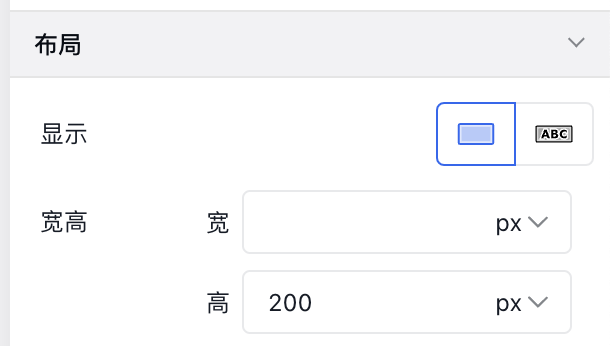
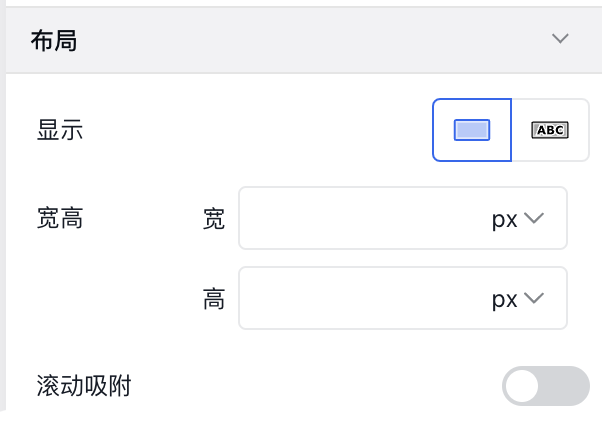
feat: 移动应用组件文档更新

diff --git a/sidebars.js b/sidebars.js
@@ -218,6 +218,62 @@ module.exports = {
           ]
         },
         {
+          组件: [
+            '移动应用/组件/流式容器', 
+            '移动应用/组件/分栏容器', 
+            '移动应用/组件/自由容器', 
+            '移动应用/组件/表单容器', 
+            '移动应用/组件/明细表', 
+            '移动应用/组件/悬浮容器', 
+            '移动应用/组件/弹窗容器', 
+            '移动应用/组件/轮播容器', 
+            '移动应用/组件/横向选项卡', 
+            '移动应用/组件/纵向选项卡', 
+            '移动应用/组件/文本', 
+            '移动应用/组件/富文本', 
+            '移动应用/组件/线条', 
+            '移动应用/组件/按钮', 
+            '移动应用/组件/图片', 
+            '移动应用/组件/视频', 
+            '移动应用/组件/轮播图', 
+            '移动应用/组件/自由列表', 
+            '移动应用/组件/单行文本', 
+            '移动应用/组件/多行文本', 
+            '移动应用/组件/数字输入', 
+            '移动应用/组件/单选框', 
+            '移动应用/组件/复选框', 
+            '移动应用/组件/下拉单选', 
+            '移动应用/组件/日期', 
+            '移动应用/组件/日期范围', 
+            '移动应用/组件/开关', 
+            '移动应用/组件/评分', 
+            '移动应用/组件/图片上传', 
+            '移动应用/组件/文件上传', 
+            '移动应用/组件/城市选择', 
+            '移动应用/组件/单图文章', 
+            '移动应用/组件/图文列表', 
+            '移动应用/组件/横向图文', 
+            '移动应用/组件/图集列表', 
+            '移动应用/组件/列表选择', 
+            '移动应用/组件/宫格导航', 
+            '移动应用/组件/图文列表', 
+            '移动应用/组件/折叠容器', 
+            '移动应用/组件/老虎机抽奖', 
+            '移动应用/组件/下拉菜单', 
+            '移动应用/组件/小程序登录', 
+            '移动应用/组件/人员选择', 
+            '移动应用/组件/部门选择', 
+            '移动应用/组件/小程序海报', 
+            '移动应用/组件/倒计时', 
+            '移动应用/组件/搜索', 
+            '移动应用/组件/3d模型展示', 
+            '移动应用/组件/生成二维码', 
+            '移动应用/组件/树形选择器', 
+            '移动应用/组件/滚动通知', 
+            '移动应用/组件/底部导航'
+          ]
+        },
+        {
           小程序: ['移动应用/小程序/小程序开发', '移动应用/小程序/小程序发布']
         },
         {
@@ -227,64 +283,7 @@ module.exports = {
             '移动应用/快应用/快应用卡片发布'
           ]
         },
-        '移动应用/前端API',
-        '移动应用/接口推送',
-        {
-          组件: [
-            '移动应用/组件/流式容器',
-            '移动应用/组件/分栏容器',
-            '移动应用/组件/自由容器',
-            '移动应用/组件/表单容器',
-            '移动应用/组件/明细表',
-            '移动应用/组件/固定容器',
-            '移动应用/组件/弹窗容器',
-            '移动应用/组件/轮播容器',
-            '移动应用/组件/横向选项卡',
-            '移动应用/组件/纵向选项卡',
-            '移动应用/组件/文本',
-            '移动应用/组件/富文本',
-            '移动应用/组件/线条',
-            '移动应用/组件/按钮',
-            '移动应用/组件/图片',
-            '移动应用/组件/视频',
-            '移动应用/组件/轮播图',
-            '移动应用/组件/自由列表',
-            '移动应用/组件/单行文本',
-            '移动应用/组件/多行文本',
-            '移动应用/组件/数字输入',
-            '移动应用/组件/单选框',
-            '移动应用/组件/复选框',
-            '移动应用/组件/下拉单选',
-            '移动应用/组件/日期',
-            '移动应用/组件/日期范围',
-            '移动应用/组件/开关',
-            '移动应用/组件/评分',
-            '移动应用/组件/图片上传',
-            '移动应用/组件/文件上传',
-            '移动应用/组件/城市选择',
-            '移动应用/组件/单图文章',
-            '移动应用/组件/图文列表',
-            '移动应用/组件/横向图文',
-            '移动应用/组件/图集列表',
-            '移动应用/组件/列表选择',
-            '移动应用/组件/宫格导航',
-            '移动应用/组件/图文列表',
-            '移动应用/组件/折叠容器',
-            '移动应用/组件/老虎机抽奖',
-            '移动应用/组件/下拉菜单',
-            '移动应用/组件/小程序登录',
-            '移动应用/组件/人员选择',
-            '移动应用/组件/部门选择',
-            '移动应用/组件/小程序海报',
-            '移动应用/组件/倒计时',
-            '移动应用/组件/搜索',
-            '移动应用/组件/3d模型展示',
-            '移动应用/组件/生成二维码',
-            '移动应用/组件/树形选择器',
-            '移动应用/组件/滚动通知',
-            '移动应用/组件/底部导航'
-          ]
-        }
+        '移动应用/接口推送'
       ],
       应用管理: [
         '应用管理/应用设置',

diff --git a/docs/移动应用/组件/悬浮容器.md b/docs/移动应用/组件/悬浮容器.md
@@ -1,0 +1,40 @@
+---
+id: 悬浮容器
+---
+
+常用于固定导航头，固定底部导航的设计，容器采用固定定位(fixed)方式，相对于浏览器窗口是固定位置，即使窗口是滚动的它也不会移动。
+
+
+悬浮容器默认相对于页面右下角定位，容器内部的组件采用流式定位，效果同流式容器
+
+![image.png](/img/移动应用/组件/fixed-section-1.png)
+
+
+## 外观
+
+### 布局
+
+调整元素位置可以通过如下图所示坐标系进行各个方位的对齐。
+
+![image.png](/img/移动应用/组件/fixed-section-2.png)
+
+
+实现按钮在悬浮容器中居中的效果
+
+![image.png](/img/移动应用/组件/fixed-section-3.png)
+
+
+
+如果想实现自由容器随意摆放的效果，可以将自由容器拖入悬浮容器，此时按钮在自由容器中可以随意摆放位置。
+
+![image.png](/img/移动应用/组件/fixed-section-5.png)
+
+
+悬浮容器通常层级相对于页面其他组件最高，设计的过程中可能会有遮挡其他组件问题，可以点击这里隐藏悬浮容器
+
+![image.png](/img/移动应用/组件/fixed-section-6.png)
+
+
+当然设计好之后你还需要将悬浮容器显示，点击悬浮面板可以切换显示。
+
+![image.png](/img/移动应用/组件/fixed-section-7.png)

diff --git a/docs/移动应用/组件/自由容器.md b/docs/移动应用/组件/自由容器.md
@@ -2,7 +2,7 @@
 id: 自由容器
 ---
 
-容器采用相对定位(relative)布局方式，子组件采用绝对定位方式(absolute)，拖进到该容器的组件可以随意摆放位置，适用于各种非响应式场景。
+顾名思义，拖进到该容器的组件可以随意摆放位置，适用于各种非响应式场景，容器采用相对定位(relative)布局方式，子组件采用绝对定位方式(absolute)
 
 ## 布局介绍
 
@@ -10,9 +10,22 @@ id: 自由容器
 
 ![image.png](/img/移动应用/组件/custom-section-2.png)
 
-自由容器高度固定，超出容器的元素默认隐藏，高度默认值为200px
+自由容器高度固定，高度默认值为200px
 
 ![image.png](/img/移动应用/组件/custom-section-1.png)
 
+
+自由容器通过控制x轴、y轴的滚动模式实现特殊角标的布局，这里以按钮为例如下图
+
+![image.png](/img/移动应用/组件/custom-section-3.png)
+
+
+自由容器中的组件均支持 布局位置、层级的设置，通过设置不同的层级可以实现组件叠加展示的效果。
+
+![image.png](/img/移动应用/组件/custom-section-4.png)
+
+
+
+外观通用设置参考 [流式容器](./流式容器)
 
 循环渲染参考 [流式容器](./流式容器)

diff --git a/docs/移动应用/组件/流式容器.md b/docs/移动应用/组件/流式容器.md
@@ -35,6 +35,15 @@ id: 流式容器
 
 ![image.png](/img/移动应用/组件/flow-section-5.png)
 
+开启滚动吸附 （只有容器在主面板下即根节点下才支持滚动吸附）
+
+![image.png](/img/移动应用/组件/flow-section-25.png)
+
+如图可以看见页面滚动条已经不在页面顶部，我们设置滚动吸附的容器实现了吸顶的效果
+
+![image.png](/img/移动应用/组件/flow-section-26.png)
+
+
 #### 显示
   - 块级元素: 多个块级元素每个都会占据一整行
   - 行内区块: 多个行内区块元素会显示在同一行，容器可以设置宽高
@@ -53,11 +62,11 @@ id: 流式容器
 
 ![image.png](/img/移动应用/组件/flow-section-8.png)
 
-#### 横向滚动
-当容器中子元素超出一行时，是否显示横向滚动条
+#### x轴滚动模式
+可以控制元素在x轴方向滚动条的显示。
 
-#### 纵向滚动
-当容器中子元素超出一行时，是否显示纵向滚动条
+#### y轴滚动模式
+可以控制元素在y轴方向滚动条的显示。
 
 ### 容器介绍
  容器内外边距设置

diff --git a/docs/移动应用/组件/树形选择器.md b/docs/移动应用/组件/树形选择器.md
@@ -16,6 +16,11 @@ id: 树形选择器
 
 当某个字段不可选择的时候 可以增加字段 disabled: true
 
+#### 初始化接口
+
+请求方式 get
+返回格式如下：
+
 ```
 {
     status: 0,
@@ -35,7 +40,47 @@ id: 树形选择器
 }
 
 ```
+#### 懒加载接口
+请求方式 get
+参数为option 的所有字段 例如
 
+```
+{
+    label: "子节点1",
+    value: "b1",
+    defer: true
+}
+
+```
+接口返回结构同初始化接口
+
+#### 搜索接口
+请求方式 get
+参数为
+```
+{
+    term: 'value'
+}
+```
+
+接口返回结构
+
+```
+{
+    status: 0,
+    data: [
+        {
+            label: "节点1",
+            value: "a1"
+        },
+         {
+            label: "节点2",
+            value: "a2"
+        }
+    ]
+}
+
+```
 
 
 ![image.png](/img/移动应用/组件/tree-select-2.png)

diff --git a/docs/移动应用/组件/横向选项卡.md b/docs/移动应用/组件/横向选项卡.md
@@ -30,12 +30,14 @@ id: 横向选项卡
 
 ![image.png](/img/移动应用/组件/tab-section-5.png)
 
+滚动吸附参考 [流式容器](./流式容器)
 ### 标签样式
 
 为了满足高度定制化的标签样式，我们提供了以下可以设置的标签样式。
 
 ![image.png](/img/移动应用/组件/tab-section-6.png)
 
+注意这里的滚动吸附是标签栏的吸附。
 
 ## 选项列表字段
 

diff --git a/docs/移动应用/组件/分栏容器.md b/docs/移动应用/组件/分栏容器.md
@@ -12,6 +12,8 @@ id: 分栏容器
 
 ![image.png](/img/移动应用/组件/column-section-3.png)
 
+滚动吸附参考 [流式容器](./流式容器)
+
 
 ## 列
 
